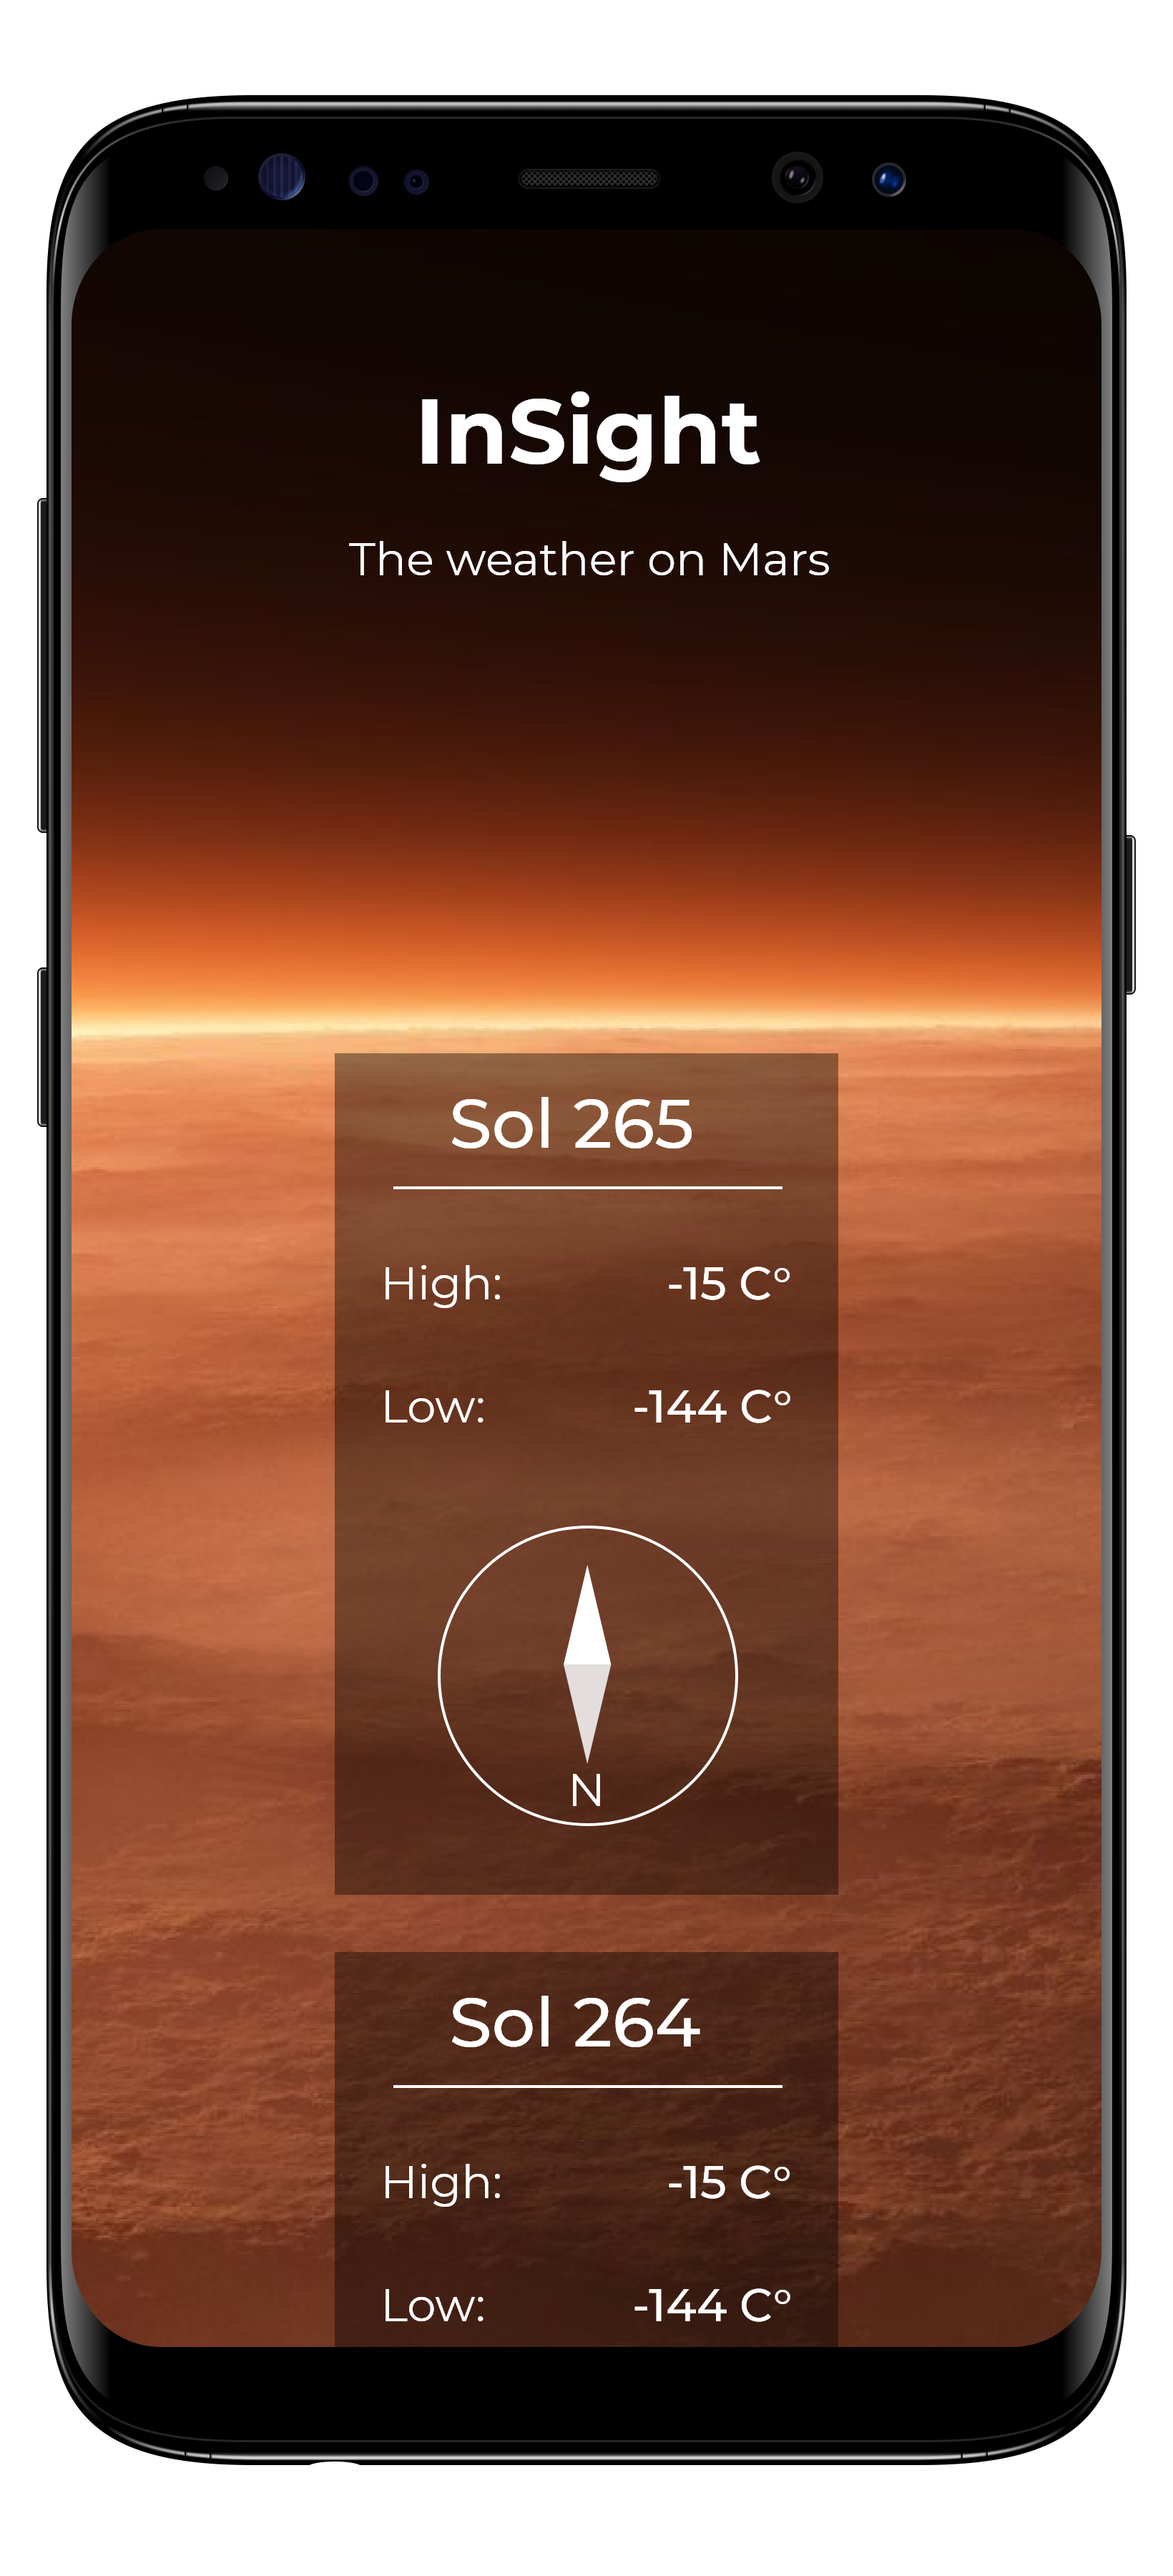
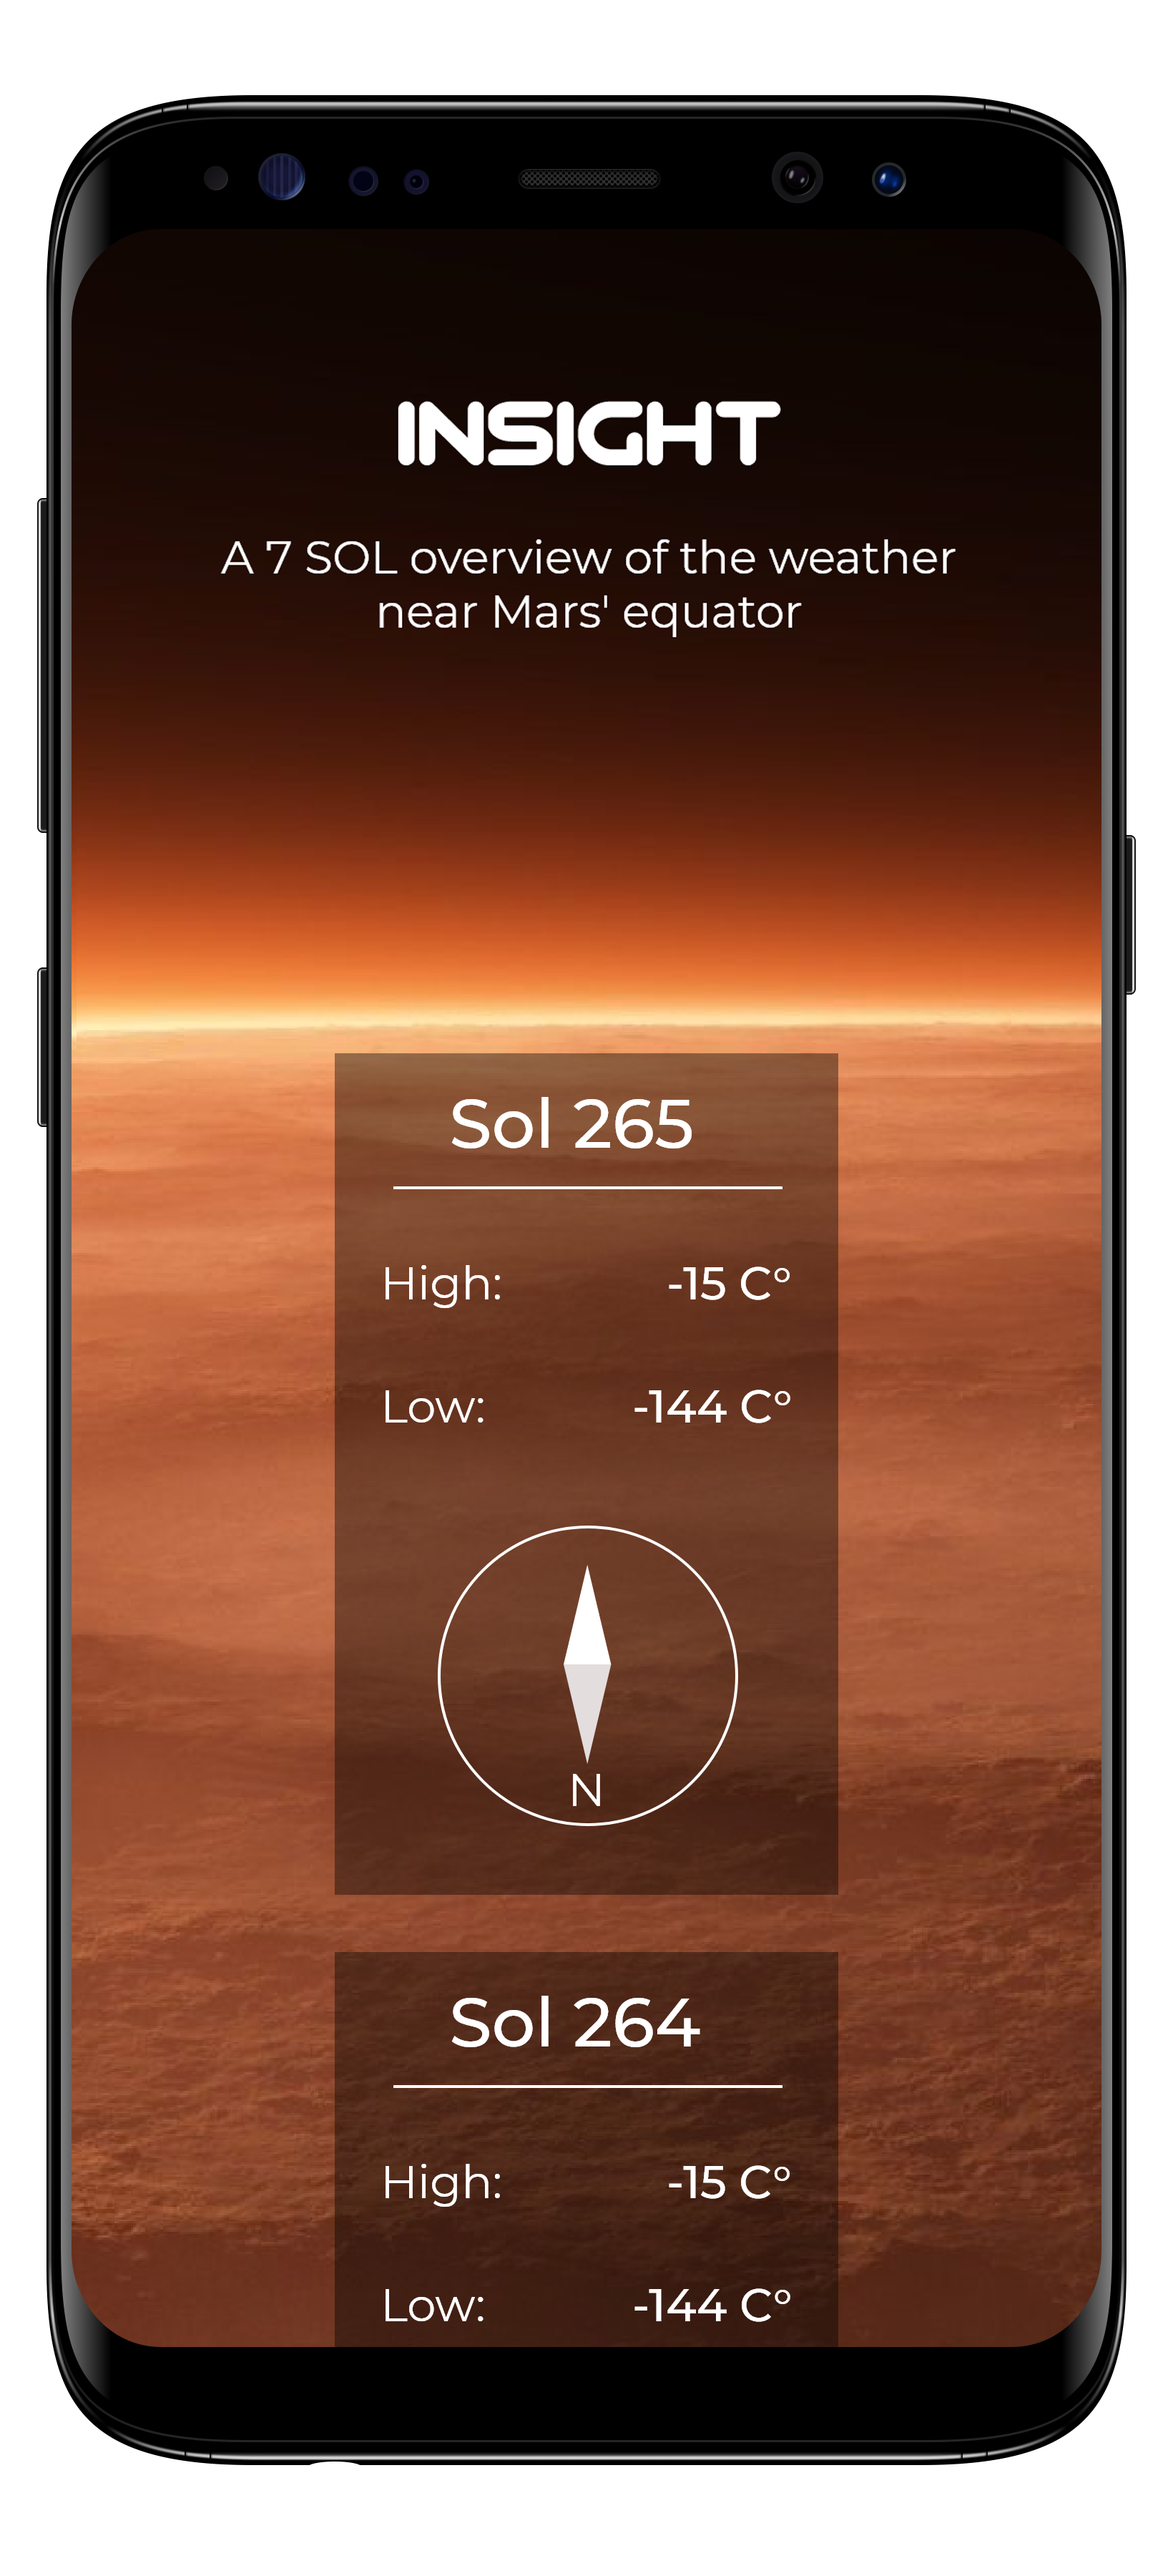
fixed mockup

Changed region(s): [[0.311, 0.1556, 0.6841, 0.2489]]

diff --git a/weather.html b/weather.html
@@ -12,10 +12,26 @@
   <body>
     <section class="o-row u-pt-clear">
       <div class="o-container ">
-        <h1 class="c-logo">InSight</h1>
+        <h1>
+          <svg
+            class="c-logo"
+            xmlns="http://www.w3.org/2000/svg"
+            width="134.219"
+            height="22.406"
+            viewBox="0 0 134.219 22.406"
+          >
+            <path
+              id="Path_990"
+              data-name="Path 990"
+              d="M2.7-22.406h.422a2.772,2.772,0,0,1,2.391,1.594,2.665,2.665,0,0,1,.266,1.234V-2.687A2.788,2.788,0,0,1,3.625-.047,2.305,2.305,0,0,1,3.219,0H2.578A2.723,2.723,0,0,1,.188-1.719,2.13,2.13,0,0,1,0-2.516V-19.8a2.7,2.7,0,0,1,2.063-2.516A2.443,2.443,0,0,1,2.7-22.406Zm7.266,0h.406A3.438,3.438,0,0,1,12.828-21Q20.7-13.25,24.375-9.7v-9.7A2.86,2.86,0,0,1,26.3-22.281a2.72,2.72,0,0,1,.766-.125h.391a2.736,2.736,0,0,1,2.375,1.672,2.743,2.743,0,0,1,.172.8V-2.422a2.6,2.6,0,0,1-1.609,2.2A1.954,1.954,0,0,1,27.547,0h-.625q-1.2,0-2.984-2.078L12.969-12.8V-2.687A2.776,2.776,0,0,1,10.859-.047,2.06,2.06,0,0,1,10.469,0H9.844A2.667,2.667,0,0,1,7.516-1.719a2.293,2.293,0,0,1-.172-.8V-19.8a2.687,2.687,0,0,1,2-2.516A2.4,2.4,0,0,1,9.969-22.406Zm29.375,0h12.3a2.671,2.671,0,0,1,2.531,1.859,2.06,2.06,0,0,1,.047.391v.844a2.671,2.671,0,0,1-1.656,2.25,3.549,3.549,0,0,1-1.062.219H37.219v2.813h8.5q5.172,0,7.7,3.266a4.091,4.091,0,0,1,.8,2.078v3.344q0,1.953-2.625,3.844A9.609,9.609,0,0,1,46.656,0H34.016a2.7,2.7,0,0,1-2.234-1.453,2.028,2.028,0,0,1-.219-.844v-.609a2.687,2.687,0,0,1,2-2.516,3.478,3.478,0,0,1,1.031-.141H48.609V-8.375H39.625a9.524,9.524,0,0,1-6.453-2.344,4.674,4.674,0,0,1-1.609-3.266v-2.828q0-2.75,3.781-4.719A10.957,10.957,0,0,1,39.344-22.406Zm19.141,0h.422A2.772,2.772,0,0,1,61.3-20.812a2.666,2.666,0,0,1,.266,1.234V-2.687A2.788,2.788,0,0,1,59.406-.047,2.305,2.305,0,0,1,59,0h-.641a2.723,2.723,0,0,1-2.391-1.719,2.13,2.13,0,0,1-.187-.8V-19.8a2.7,2.7,0,0,1,2.063-2.516A2.443,2.443,0,0,1,58.484-22.406Zm15.8,0h8.953a2.835,2.835,0,0,1,2.375,1.625,3.76,3.76,0,0,1,.172.844v.625a2.626,2.626,0,0,1-1.687,2.25,2.782,2.782,0,0,1-1.031.219H75.531a6.784,6.784,0,0,0-6.25,3.391,5.326,5.326,0,0,0-.531,2.3q0,3.313,3.875,5.109a7.705,7.705,0,0,0,2.547.484h4.984V-8.375a2.881,2.881,0,0,1,1.75-2.953,2.079,2.079,0,0,1,.969-.234h.234a2.743,2.743,0,0,1,2.625,2.078,2.06,2.06,0,0,1,.047.391v6.672a2.6,2.6,0,0,1-1.609,2.2A1.954,1.954,0,0,1,83.328,0H74a11.244,11.244,0,0,1-7.219-2.953,10.926,10.926,0,0,1-2.453-3.219,10.214,10.214,0,0,1-1.2-4.594v-.828a10.886,10.886,0,0,1,3.344-7.547A11.407,11.407,0,0,1,74.281-22.406Zm15.688,0h.406A2.711,2.711,0,0,1,92.7-20.812a2.665,2.665,0,0,1,.266,1.234v5.594h11.406v-5.422a2.856,2.856,0,0,1,2.188-2.953,3.548,3.548,0,0,1,.5-.047h.391a2.736,2.736,0,0,1,2.375,1.672,2.743,2.743,0,0,1,.172.8V-2.422a2.6,2.6,0,0,1-1.609,2.2,1.954,1.954,0,0,1-.844.219h-.625a2.651,2.651,0,0,1-2.359-1.812A3.639,3.639,0,0,1,104.375-3V-8.422H92.969v5.734A2.776,2.776,0,0,1,90.859-.047,2.06,2.06,0,0,1,90.469,0h-.625a2.667,2.667,0,0,1-2.328-1.719,2.293,2.293,0,0,1-.172-.8V-19.8a2.687,2.687,0,0,1,2-2.516A2.4,2.4,0,0,1,89.969-22.406Zm24.219,0h17.484a2.736,2.736,0,0,1,2.375,1.672,2.743,2.743,0,0,1,.172.8v.625a2.626,2.626,0,0,1-1.687,2.25,2.782,2.782,0,0,1-1.031.219h-5.8V-2.609a2.74,2.74,0,0,1-2.047,2.563L123.2,0h-.625A2.663,2.663,0,0,1,120.3-1.672a2.749,2.749,0,0,1-.219-1.016V-16.844h-5.656a2.792,2.792,0,0,1-2.766-1.984,2.987,2.987,0,0,1-.094-.578V-19.8a2.687,2.687,0,0,1,2-2.516A2.4,2.4,0,0,1,114.188-22.406Z"
+              transform="translate(0 22.406)"
+              fill="#fff"
+            />
+          </svg>
+        </h1>
         <div class="c-intro">
           <p class="c-intro-text u-max-width-xs  ">
-            The weather on Mars
+            A 7 SOL overview of the weather near Mars' equator
           </p>
         </div>
       </div>
